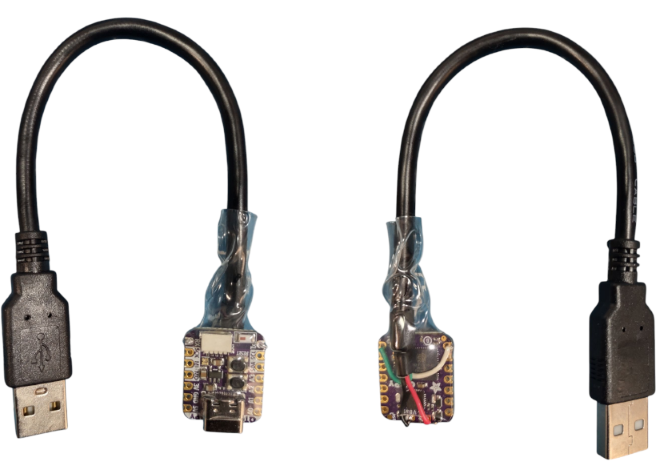
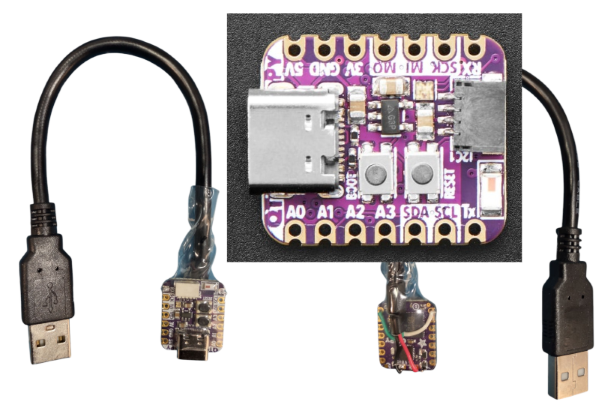
Improved documentation for the Adafruit QT PY ESP32 pico board support

diff --git a/README_SCK300S.md b/README_SCK300S.md
@@ -1,7 +1,7 @@
 SCKTalk and the SCK-300S
 =======
 
-A brief overview of using a simple Java program to control the SCK-300S spin coater kit through the USB/serial port, and over Bluetooth from a Windows 10/11 computer. ***Please note that this code is provided for demonstration and testing purposes only, and comes with absolutely NO Warranty, or Support of any kind. Use at your own risk***.
+A brief overview of using a simple Java program to control the SCK-300S spin coater kit through the USB/serial port, and over Bluetooth from a Windows 10/11 computer. ***Please note that this software code is provided for demonstration and testing purposes only, and comes with absolutely NO Warranty, or Support of any kind. Use at your own risk***.
 
 ## Introduction
 
@@ -29,7 +29,7 @@ For a wireless connection, an [AceBott ESP32 Board](https://a.co/d/4wHfQw6) was 
 
 ##### Wireless Bluetooth and Web Interface
 
-An alternative board for making wireless Bluetooth and Web Interface connections is the, [Adafruit QT Py ESP32 Pico](https://www.adafruit.com/product/5395) (*Must be ESP32 Pico MCU, not ESP32-S2/S3/C3 etc, since those other MCUs do not support Bluetooth classic aka SPP*).  Once the proper [Sketch](SCKCommQTPY_ESP32\SCKCommQTPY_ESP32.ino) has been loaded, connect the board to the SCK-300S unit using the USB-A cable. The red/black cables go to the +/- battery pads, green goes to  the TX pin and white goes to the RX/pin.  Next power on the SCK-300S and pair the board to the PC (device name is SCKCommQTPY) over Bluetooth from PC. Once paired, take note of the assigned comm port.
+An alternative board for making wireless Bluetooth and Web Interface connections is the, [Adafruit QT Py ESP32 Pico](https://www.adafruit.com/product/5395) (*Must be ESP32 Pico MCU, not ESP32-S2/S3/C3 etc, since those other MCUs do not support Bluetooth classic aka SPP*).  Once the proper [Sketch](SCKCommQTPY_ESP32\SCKCommQTPY_ESP32.ino) has been loaded, connect the board to the SCK-300S unit using a USB-A cable. The Red/Black cables go to the +/- battery pads, Green goes to  the TX pin and White goes to the RX/pin.  Next power on the SCK-300S and pair the board to the PC (device name is **SCKCommQTPY**) over Bluetooth from a PC. Once paired, take note of the assigned comm port.
 
 ![QTPY + USB-A](QTPY_01.png)
 
